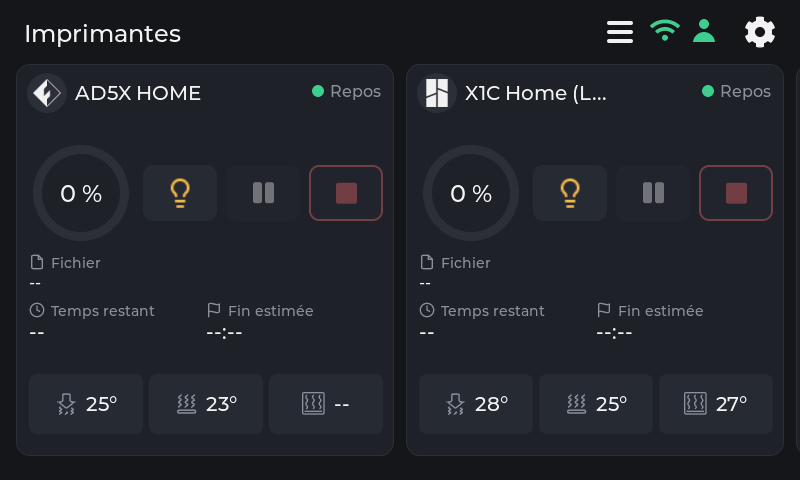
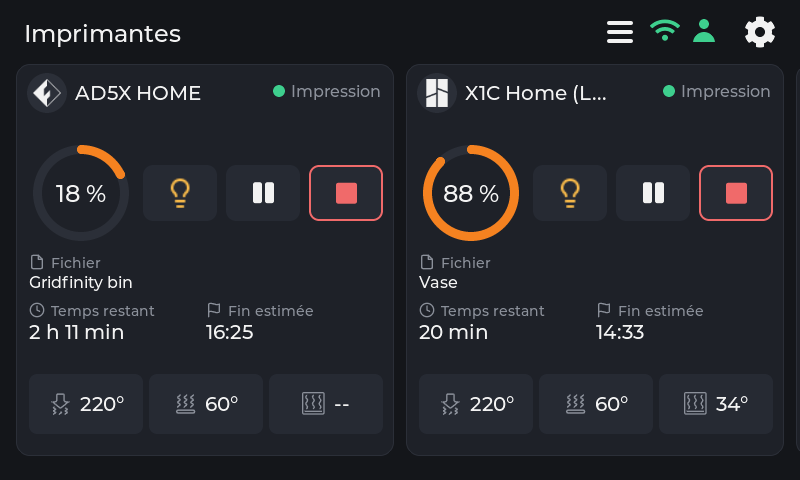
The README shows the screen at work: start-up, cards, list, full view
An animated picture in BIGTREETECH's 45-degree drawing turns from the
start-up screen to the cards, the list and a printer's full view. The
gallery shows printers printing; their progress was filled in by a bench
build, as its caption says. The installer's picture turns to the cards
printing.

diff --git a/README.md b/README.md
@@ -33,7 +33,7 @@
 </p>
 
 <p align="center">
-  <img src="assets/tiger-touch-device.png" alt="A BIGTREETECH Panda Touch running Tiger Touch: two live printer cards, a FlashForge AD5X and a Bambu Lab X1C, with progress ring, light, pause and stop buttons, and the nozzle, bed and chamber temperatures" width="440">
+  <img src="assets/devices/tiger-touch-views.webp" alt="A BIGTREETECH Panda Touch running Tiger Touch, in turn: its start-up screen, the printers as live cards, the printers as a list, and one printer's full view with its four tool heads" width="440">
 </p>
 
 <p align="center">
@@ -98,22 +98,25 @@ browser, and two minutes later it shows your printers.
 
 <table>
   <tr>
-    <td width="50%"><img src="assets/screens/home-cards.png" alt="Home screen in card view: one live card per printer, sliding sideways"></td>
-    <td width="50%"><img src="assets/screens/home-list.png" alt="Home screen in list view: one row per printer with state, progress, temperatures, light, pause and stop"></td>
+    <td width="50%"><img src="assets/screens/home-cards.png" alt="Home screen in card view: two printers printing, each with its progress ring, file, time left, end time and temperatures"></td>
+    <td width="50%"><img src="assets/screens/home-list.png" alt="Home screen in list view: four printers printing, each with its progress bar, file, time left, temperatures, light, pause and stop"></td>
   </tr>
   <tr>
     <td><b>Cards</b>: one live card per printer, slide for more.</td>
     <td><b>List</b>: every printer at a glance. One touch switches view.</td>
   </tr>
   <tr>
-    <td><img src="assets/screens/printer-snapmaker-u1.png" alt="Full view of a Snapmaker U1: four tool heads with the active one ringed, and its four filaments"></td>
-    <td><img src="assets/screens/printer-flashforge-ad5x.png" alt="Full view of a FlashForge AD5X: its external spool and its four-slot material station"></td>
+    <td><img src="assets/screens/printer-snapmaker-u1.png" alt="Full view of a Snapmaker U1 printing: progress, layers, four tool heads with the active one ringed, and its four filaments"></td>
+    <td><img src="assets/screens/printer-flashforge-ad5x.png" alt="Full view of a FlashForge AD5X printing: progress, layers, its external spool and its four-slot material station"></td>
   </tr>
   <tr>
     <td><b>Snapmaker U1</b>: four tool heads, the active one ringed.</td>
     <td><b>FlashForge AD5X</b>: external spool and material station.</td>
   </tr>
 </table>
+
+<sub>Real printers, read live by Tiger Touch; for these pictures their progress,
+file names and times were filled in by a bench build, since they were idle.</sub>
 
 ## Printers
 

diff --git a/THIRD_PARTY_LICENSES.md b/THIRD_PARTY_LICENSES.md
@@ -61,11 +61,13 @@ The pictograms for the nozzle, the bed and the chamber (`firmware/tools/pictos/`
 are Tiger Studio Manager's own; the clock is Studio's too, and the file and the
 flag are drawn in the same style.
 
-`assets/tiger-touch-device.png`, the README's picture of the screen, is
+The pictures of the screen - `assets/tiger-touch-device.png`,
+`assets/tiger-touch-splash.png`, everything in `assets/devices/` (the animated
+`tiger-touch-views.webp` included) and the installer's `device*.png` - are
 BigTreeTech's line drawing of the Panda Touch from its board component's
 documentation (`docs/images/pandatouch.png`, MIT as stated by that component, see
-above), its lines turned grey and a Tiger Touch screenshot set into its screen.
-The `BIGTREETECH` mark on it is theirs.
+above), its lines turned grey and a Tiger Touch screen set into it. The
+`BIGTREETECH` mark on them is theirs.
 
 The README's other pictures come from the TigerTag project's own Tiger Studio
 Manager:

diff --git a/CHANGELOG.md b/CHANGELOG.md
@@ -29,6 +29,11 @@ they were written.
   button to tigersystem.io, in the eleven languages.
 
 ### Changed
+- **The README shows the screen at work**: its top picture turns, in BIGTREETECH's
+  45-degree drawing, from the start-up screen to the cards, the list and a
+  printer's full view; the gallery shows printers printing (their progress was
+  filled in by a bench build, which the caption says). The installer's picture
+  turns to the cards printing.
 - **The settings row reads *Account*** instead of *Change account*.
 - **The installer page uses the width of the screen**: on a computer, the
   pitch and the install steps beside a large picture of the screen, then

diff --git a/WORKLOG.md b/WORKLOG.md
@@ -10,6 +10,7 @@ reset to this header at each release.
 - The installer page invites people not installing today to join the TigerSquad on tigersystem.io.
 
 ## Changed
+- README: an animated picture of the screen (start-up, cards, list, full view) and printing screenshots; installer flip shows the cards printing.
 - The settings row 'Change account' is now just 'Account'.
 - The installer page opens on the name, Tiger Touch, in large type, on every screen size.
 - The installer page is laid out for desktop, tablet and phone; the brand logos follow the text colour.
